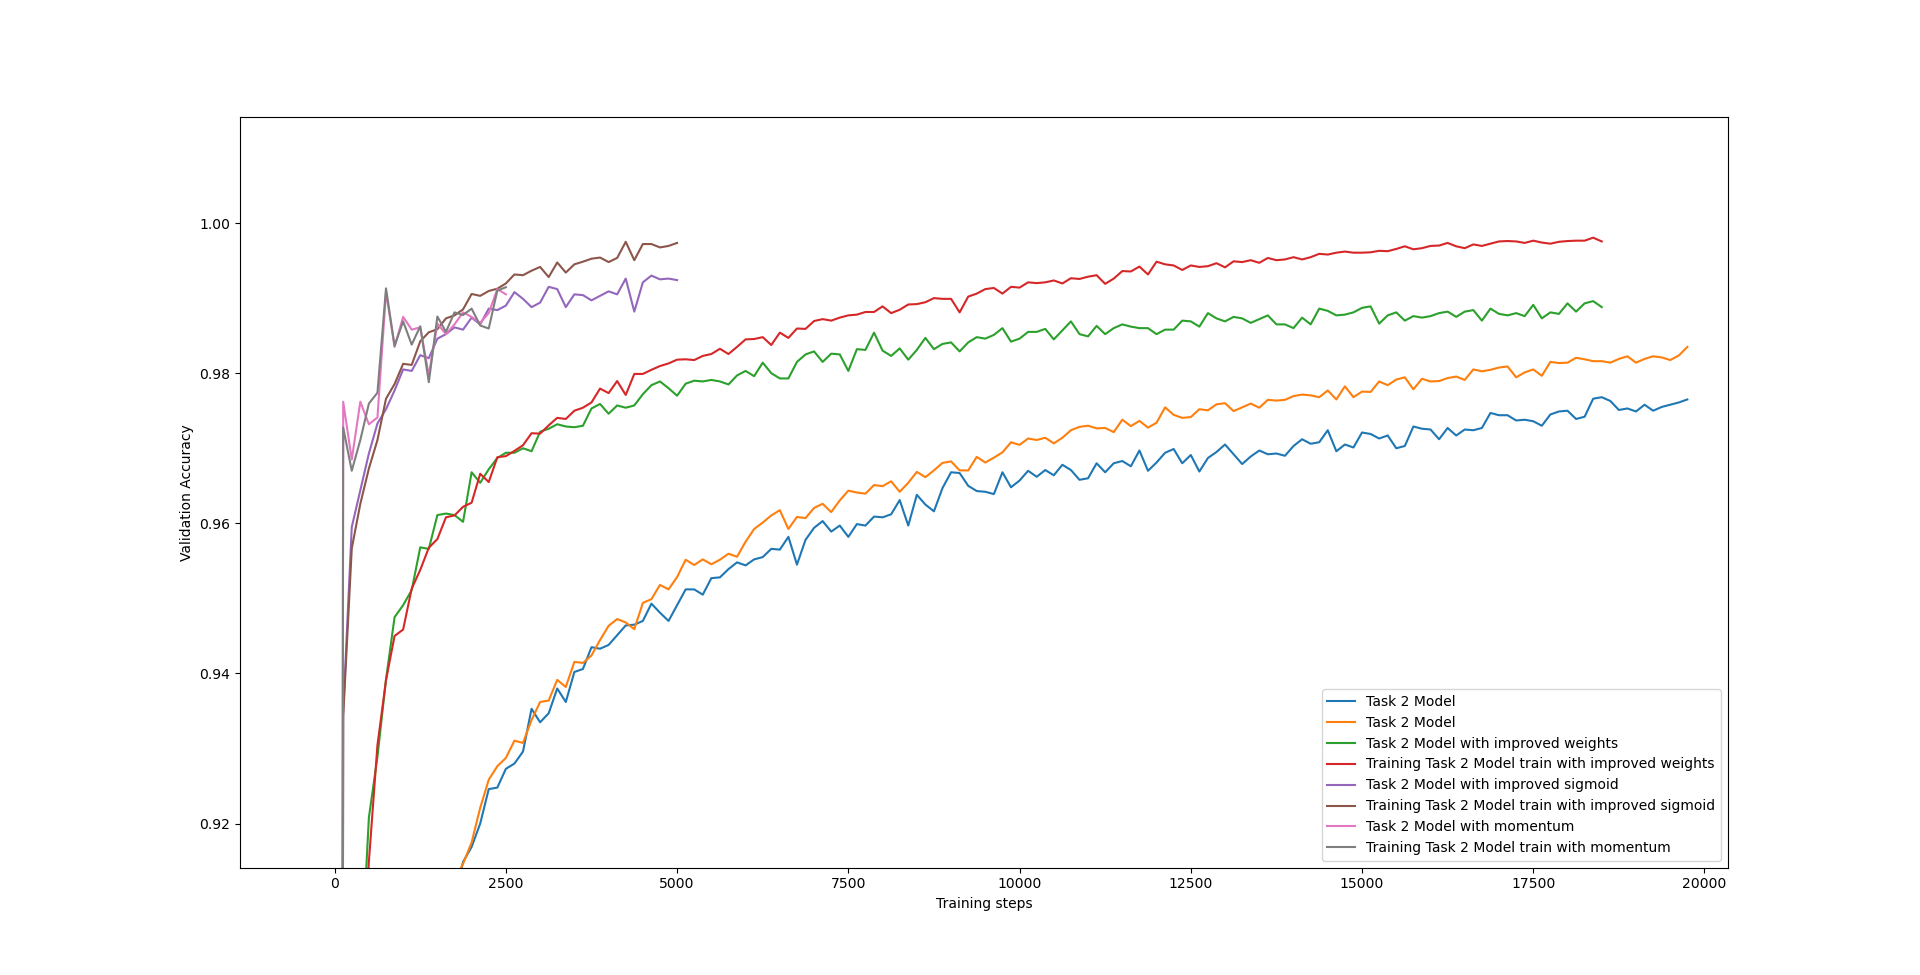
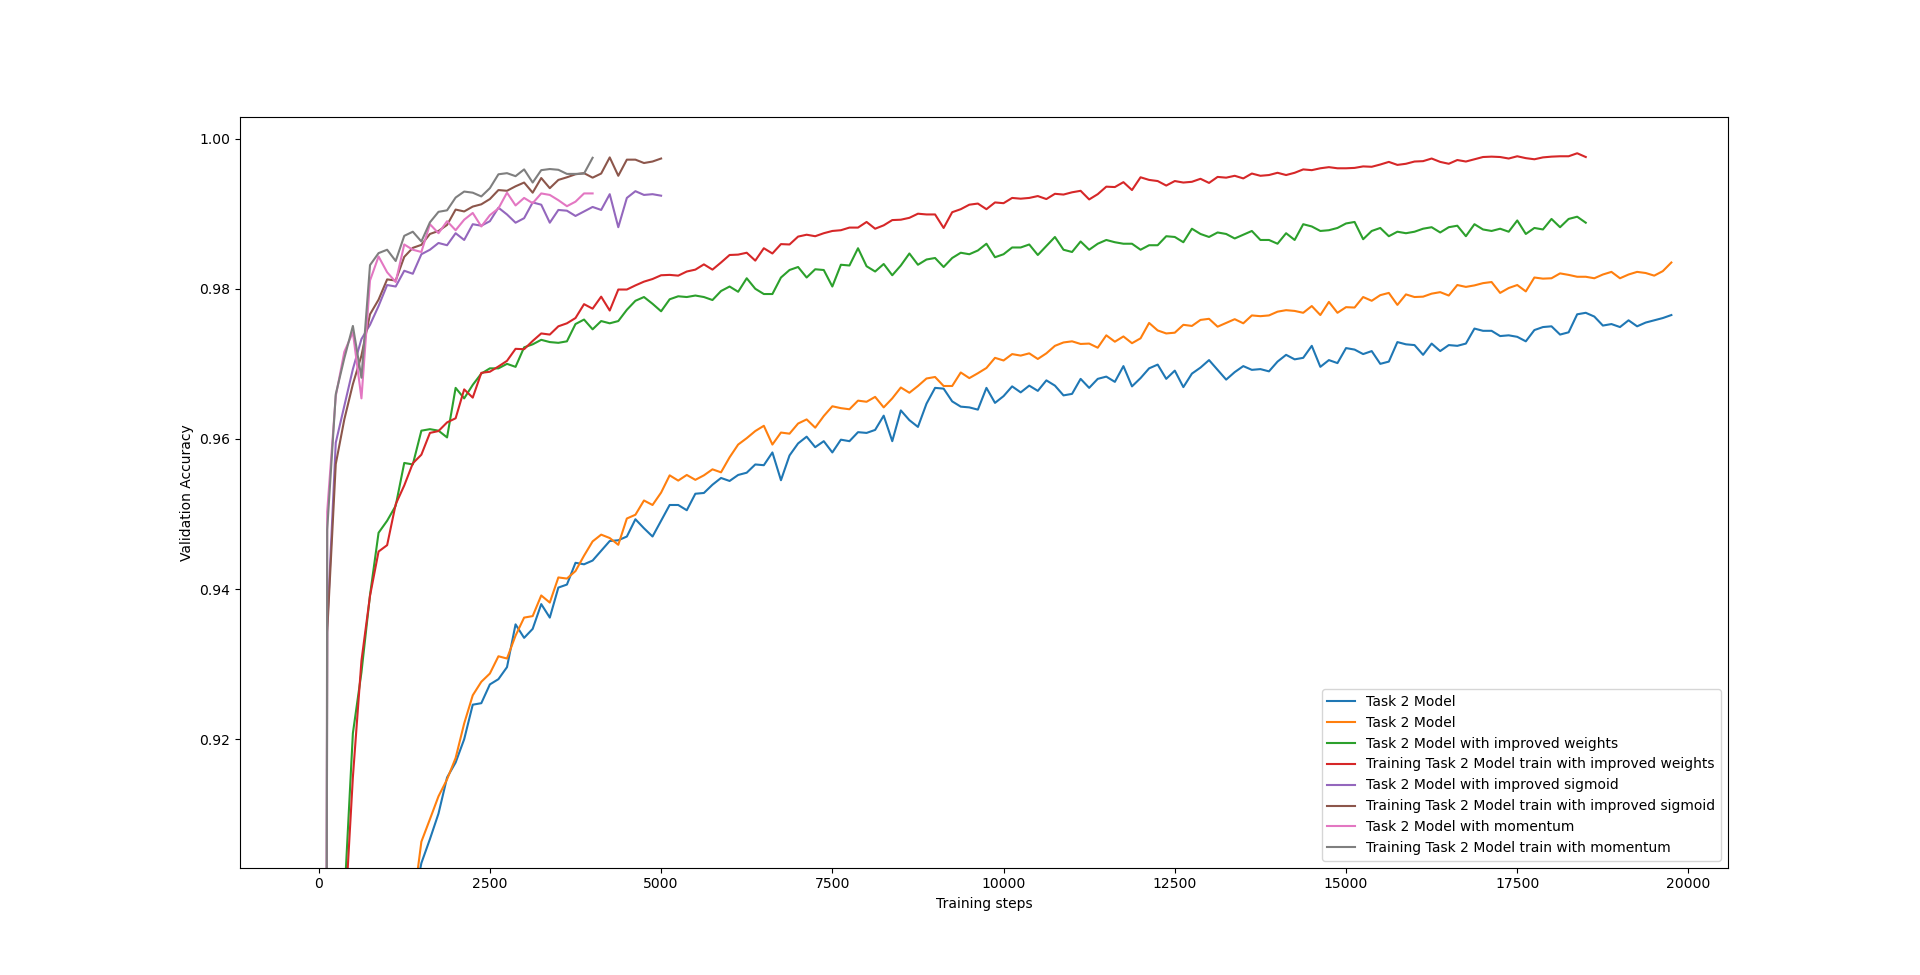
Finished task 3

diff --git a/assignment2/task3.py b/assignment2/task3.py
@@ -8,7 +8,7 @@ def main():
     # hyperparameters DO NOT CHANGE IF NOT SPECIFIED IN ASSIGNMENT TEXT
     num_epochs = 50
     learning_rate = .1
-    #learning_rate = .02 # lr for momentum
+    #
     batch_size = 32
     neurons_per_layer = [64, 10]
     momentum_gamma = .9  # Task 3 hyperparameter
@@ -74,10 +74,11 @@ def main():
         model_sigmoid, learning_rate, batch_size, shuffle_data,
         X_train, Y_train, X_val, Y_val,
     )
-
+    
     train_history_sigmoid, val_history_sigmoid = trainer_sigmoid.train(num_epochs)
     
     #model trained with momentum
+    learning_rate = .02 # lr for momentum
     use_improved_weight_init = True
     use_improved_sigmoid = True
     use_momentum = True
@@ -94,23 +95,27 @@ def main():
     )
 
     train_history_momentum, val_history_momentum = trainer_momentum.train(num_epochs)
-     
+    
     
     #plt.subplot(1, 2, 1)
     plt.title("Training and Validation loss")
 
     utils.plot_loss(train_history["loss"],
-                    "Task 2 Model", npoints_to_average=10)
+                    "Training Task 2 Model", npoints_to_average=10)
+    utils.plot_loss(val_history["loss"], ("Validation Task 2 Model"))
 
 
     utils.plot_loss(
-        train_history_weights["loss"], "Task 2 Model - Improved weights", npoints_to_average=10)
-    
+        train_history_weights["loss"], "Training Task 2 Model - Improved weights", npoints_to_average=10)
+    utils.plot_loss(val_history_weights["loss"], ("Validation Task 2 Model - Improved weights"))
+
     utils.plot_loss(
-        train_history_sigmoid["loss"], "Task 2 Model - Improved sigmoid", npoints_to_average=10)
-    
+        train_history_sigmoid["loss"], "Training Task 2 Model - Improved sigmoid", npoints_to_average=10)
+    utils.plot_loss(val_history_sigmoid["loss"], ("Validation Task 2 Model - Improved sigmoid"))
+     
     utils.plot_loss(
-        train_history_momentum["loss"], "Task 2 Model - Improved momentum", npoints_to_average=10)
+        train_history_momentum["loss"], "Training Task 2 Model - Improved momentum", npoints_to_average=10)
+    utils.plot_loss(val_history_momentum["loss"], ("Validation Task 2 Model - Improved momentum"))
     
     plt.ylim([0, .4])
     plt.xlabel("Training steps")
